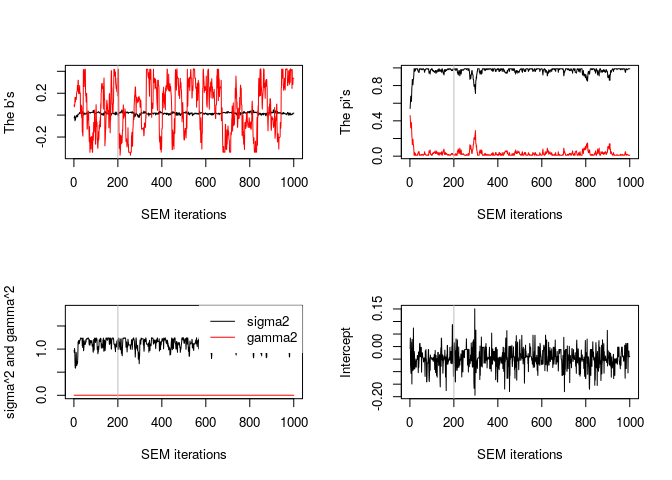
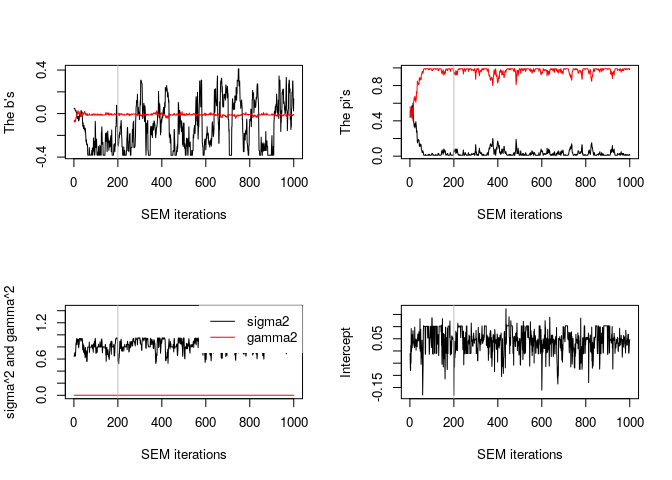
update readme

diff --git a/README.md b/README.md
@@ -57,13 +57,14 @@ plot(model)
 clus <- clusters(model, threshold = NULL)
 
 predict(model, newx = x + 1)
-#>  [1] 1.925147 1.640999 1.679994 1.625468 1.758027 1.850437 2.035931 1.490719
-#>  [9] 2.023115 1.838891 1.911834 1.780355 1.609614 1.647767 1.922336 1.931111
-#> [17] 1.615539 1.634079 1.827008 1.715950 1.565292 1.506728 1.976944 1.926210
-#> [25] 1.996468 1.786399 1.430099 1.625339 2.125354 1.646800 1.743897 1.613056
-#> [33] 1.919351 1.902138 2.087648 1.254038 2.153739 1.726456 1.756179 1.765007
-#> [41] 1.812709 1.781935 1.761190 1.939952 1.671561 1.677493 1.749281 1.917779
-#> [49] 1.831188 1.472350
+#>  [1] -1.213815 -1.227946 -1.330441 -1.328878 -1.140979 -1.452013 -1.348810
+#>  [8] -1.456819 -1.279758 -1.556311 -1.172174 -1.295883 -1.386152 -1.470135
+#> [15] -1.418711 -1.379912 -1.640547 -1.230693 -1.318454 -1.609977 -1.282903
+#> [22] -1.532473 -1.484949 -1.692800 -1.404823 -1.366585 -1.226226 -1.265016
+#> [29] -1.417031 -1.205170 -1.442003 -1.491469 -1.489771 -1.554533 -1.181190
+#> [36] -1.407053 -1.304942 -1.338871 -1.232894 -1.329558 -1.258883 -1.560488
+#> [43] -1.487141 -1.400914 -1.319881 -1.330845 -1.328302 -1.422391 -1.433036
+#> [50] -1.573886
 
 summary(model)
 #>  -------------------------------
@@ -74,18 +75,18 @@ summary(model)
 #> 
 #>  ---
 #>  Estimated parameters using SEM algorithm are
-#>  intercept = -0.04571
-#>  b         = 0.01649 0.07329
-#>  pi        = 0.96815 0.03185
-#>  sigma2    = 1.131
-#>  gamma2    = 7.66e-05
+#>  intercept = 0.03965
+#>  b         = -0.09245    -0.01122
+#>  pi        = 0.03356 0.96644
+#>  sigma2    = 0.8412
+#>  gamma2    = 5.149e-05
 #> 
 #>  ---
-#>  Log-likelihood =  -83.89 
-#>  Entropy        =  13.743 
-#>  AIC            =  179.79 
-#>  BIC            =  191.26 
-#>  ICL            =  205
+#>  Log-likelihood =  -76.73 
+#>  Entropy        =  14.095 
+#>  AIC            =  165.46 
+#>  BIC            =  176.93 
+#>  ICL            =  191.03
 ```
 
 ## Citing clere
@@ -103,7 +104,6 @@ Journal</em>, <b>8</b>(1), 92–106. doi:
       title = {{Variable Clustering in High-Dimensional Linear Regression: The R Package clere}},
       author = {Loïc Yengo and Julien Jacques and Christophe Biernacki and Mickael Canouil},
       journal = {The R Journal},
-      address = {Oxford, England},
       year = {2016},
       month = {apr},
       doi = {10.32614/RJ-2016-006},
